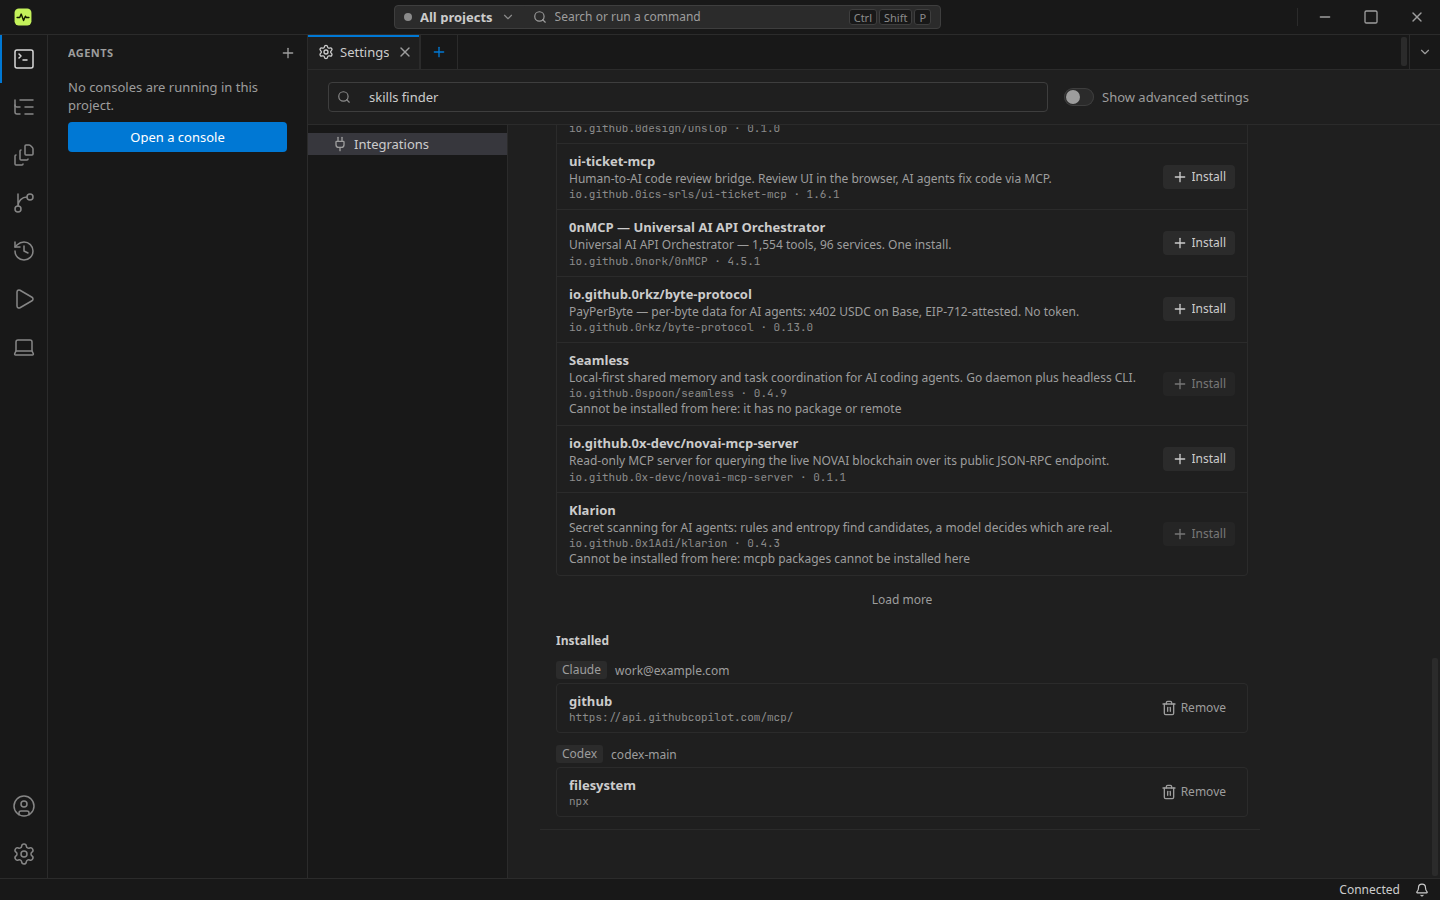
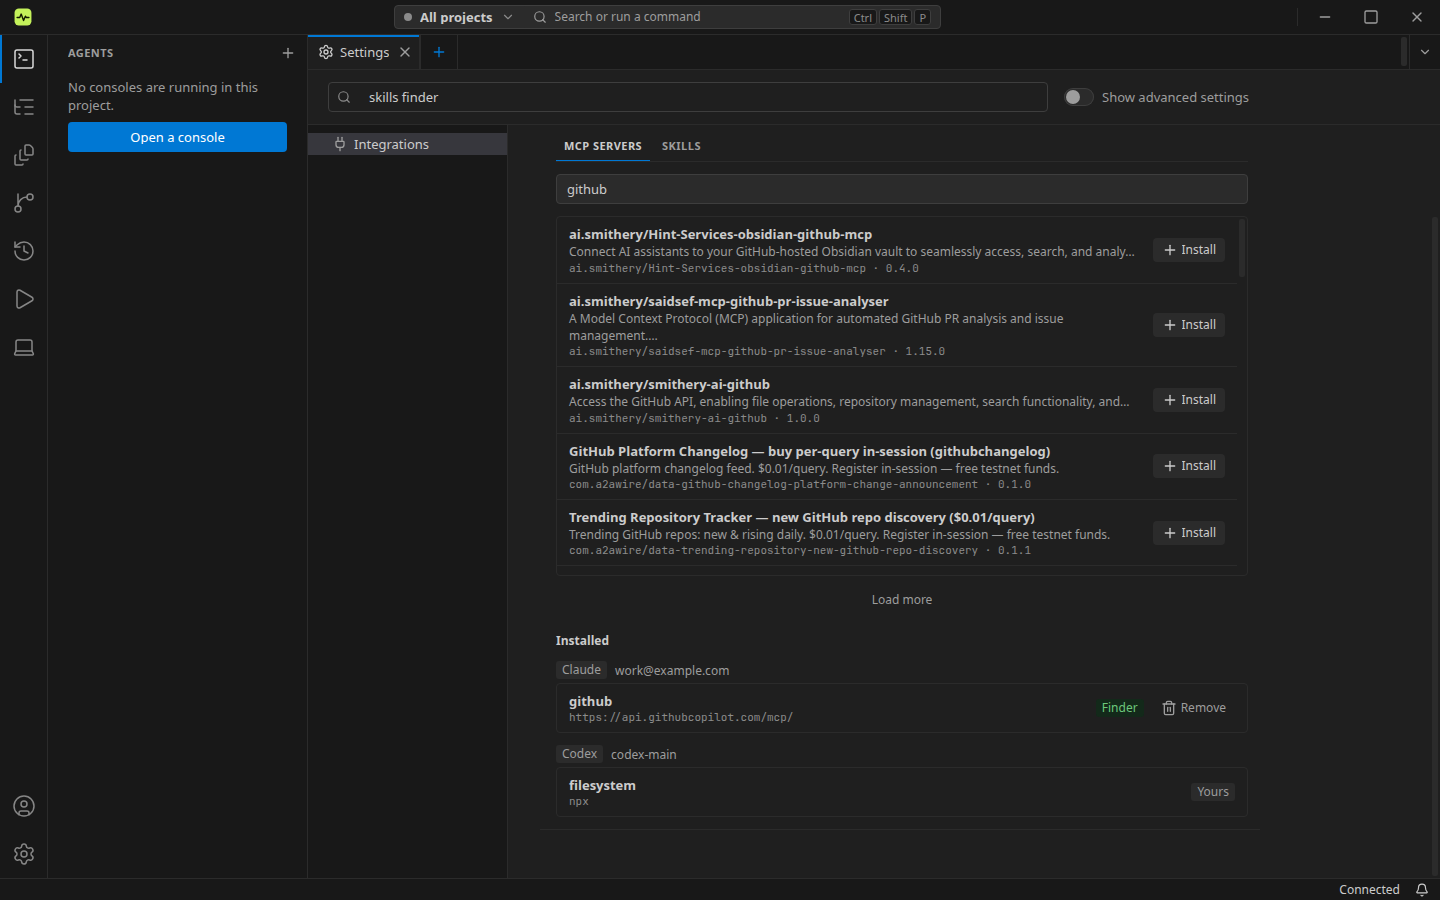
feat(settings): remove only finder-installed MCP servers
MCP configs carry no origin, so the installed list offered Remove on
servers the person set up themselves. The finder now records its own MCP
installs per account in renderer storage; only those show the Finder
badge and Remove, other non-Astera servers show Yours and stay read-only.
The record drops servers no longer installed, so one re-added by hand is
the person's.

diff --git a/src/renderer/src/components/extensions/FinderPanel.tsx b/src/renderer/src/components/extensions/FinderPanel.tsx
@@ -8,7 +8,10 @@ import { useI18n } from '../../i18n/I18nProvider'
 import { toast } from '../../lib/toast'
 import { confirmModal } from '../../lib/confirm'
 import { Button, Chip, Icon, Input, Tabs } from '../ui'
-import { byAccount, inputsOf, installedIn, mcpOrigin, mcpRemovable, SEARCH_DEBOUNCE_MS, skillRemovable, splitResults, filledValues } from './finderLogic'
+import {
+  byAccount, filledValues, inputsOf, installedIn, mcpOrigin, prunedOwned, readOwned, removable, SEARCH_DEBOUNCE_MS, splitResults, withInstalled,
+  withoutInstalled, writeOwned
+} from './finderLogic'
 import { InstallDialog } from './InstallDialog'
 import { SkillReposEditor } from './SkillReposEditor'
 import './finder.css'
@@ -20,6 +23,14 @@ type SkillPage = { skills: SkillCatalogEntry[]; repoErrors: string[] }
 type Target = { kind: 'mcp'; entry: McpCatalogEntry } | { kind: 'skills'; entry: SkillCatalogEntry }
 
 const detailOf = (err: unknown): string => (err instanceof Error ? err.message : String(err))
+
+function storage(): Storage | undefined {
+  try {
+    return typeof localStorage === 'undefined' ? undefined : localStorage
+  } catch {
+    return undefined
+  }
+}
 
 /** The search box's value, settled for SEARCH_DEBOUNCE_MS. */
 function useDebounced(value: string): string {
@@ -67,6 +78,14 @@ export function FinderPanel({ accounts }: { accounts: readonly Account[] }): Rea
   const [target, setTarget] = useState<Target | null>(null)
   const [installing, setInstalling] = useState(false)
   const [removing, setRemoving] = useState<string | null>(null)
+  /** The MCP servers the finder installed (finderLogic FINDER_MCP_KEY): the only MCP rows with Remove. */
+  const [owned, setOwnedState] = useState<Set<string>>(() => readOwned(storage()))
+  const setOwned = (update: (prev: Set<string>) => Set<string>): void =>
+    setOwnedState((prev) => {
+      const next = update(prev)
+      writeOwned(storage(), next)
+      return next
+    })
   /** Only the latest search may land: an older, slower answer is dropped. */
   const seq = useRef(0)
   const labelOf = useMemo(() => {
@@ -112,7 +131,10 @@ export function FinderPanel({ accounts }: { accounts: readonly Account[] }): Rea
     if (which === 'mcp') {
       setMcpInstalled({ state: 'loading' })
       window.api.extensions.mcpInstalled().then(
-        (v) => setMcpInstalled({ state: 'ok', value: v }),
+        (v) => {
+          setMcpInstalled({ state: 'ok', value: v })
+          setOwned((prev) => prunedOwned(prev, v))
+        },
         (err) => setMcpInstalled({ state: 'error', message: detailOf(err) })
       )
     } else {
@@ -137,6 +159,10 @@ export function FinderPanel({ accounts }: { accounts: readonly Account[] }): Rea
           ? await window.api.extensions.mcpInstall({ accountIds, name: target.entry.name, recipe: target.entry.recipe, values: filledValues(values) })
           : await window.api.extensions.skillsInstall({ accountIds, repo: (target.entry as SkillCatalogEntry).repo, path: (target.entry as SkillCatalogEntry).path })
       const { ok, failed } = splitResults(r, labelOf)
+      if (target.kind === 'mcp') {
+        const done = r.results.filter((x) => x.ok).map((x) => x.accountId)
+        setOwned((prev) => withInstalled(prev, done, target.entry.name))
+      }
       if (ok.length > 0) toast.success(t('finder.installed.ok', { name: target.entry.name, accounts: ok.join(', '), note: r.note }))
       for (const f of failed) toast.error(t('finder.installed.failed', { account: f.label, detail: f.message }))
       setTarget(null)
@@ -154,7 +180,10 @@ export function FinderPanel({ accounts }: { accounts: readonly Account[] }): Rea
     setRemoving(`${accountId}/${name}`)
     try {
       const r = kind === 'mcp' ? await window.api.extensions.mcpRemove(accountId, name) : await window.api.extensions.skillsRemove(accountId, name)
-      if (r.ok) toast.success(t('finder.remove.done', { name, account }))
+      if (r.ok) {
+        if (kind === 'mcp') setOwned((prev) => withoutInstalled(prev, accountId, name))
+        toast.success(t('finder.remove.done', { name, account }))
+      }
       else toast.error(t('finder.remove.failed', { name, detail: r.message }))
     } catch (err) {
       toast.error(t('finder.remove.failed', { name, detail: detailOf(err) }))
@@ -260,8 +289,8 @@ export function FinderPanel({ accounts }: { accounts: readonly Account[] }): Rea
               <ul className="finder__list">
                 {items.map((i) => {
                   const isMcp = kind === 'mcp'
-                  const origin = isMcp ? mcpOrigin(i as McpInstalled) : (i as SkillInstalled).origin
-                  const canRemove = isMcp ? mcpRemovable(i as McpInstalled) : skillRemovable(i as SkillInstalled)
+                  const origin = isMcp ? mcpOrigin(i as McpInstalled, owned) : (i as SkillInstalled).origin
+                  const canRemove = removable(origin)
                   const detail = isMcp ? ((i as McpInstalled).url ?? (i as McpInstalled).command ?? (i as McpInstalled).transport) : (i as SkillInstalled).description
                   return (
                     <li key={i.name} className="finder__item">

diff --git a/src/renderer/src/components/extensions/finderLogic.test.ts b/src/renderer/src/components/extensions/finderLogic.test.ts
@@ -1,8 +1,8 @@
 import { describe, expect, it } from 'vitest'
 import type { Account, McpInput } from '../../../../core/types'
 import {
-  accountsByProvider, byAccount, canInstall, defaultPick, filledValues, initialValues, installedIn, mcpOrigin, mcpRemovable, missingInputs,
-  normaliseRepo, providerPick, repoProblem, skillRemovable, splitResults, toggleProvider
+  accountsByProvider, byAccount, canInstall, defaultPick, filledValues, initialValues, installedIn, mcpOrigin, missingInputs, prunedOwned, readOwned, removable, withInstalled, withoutInstalled, writeOwned,
+  normaliseRepo, providerPick, repoProblem, splitResults, toggleProvider
 } from './finderLogic'
 
 const acc = (id: string, provider?: 'claude' | 'codex'): Account => ({ id, label: id.toUpperCase(), configDir: `/c/${id}`, color: '', createdAt: '', provider })
@@ -45,15 +45,31 @@ describe('MCP inputs', () => {
 })
 
 describe('installed lists', () => {
-  it('the astera server is Astera’s and not removable; another MCP server is; only a finder skill is', () => {
-    expect(mcpOrigin({ accountId: 'a', name: 'Astera', transport: 'stdio' })).toBe('astera')
-    expect(mcpRemovable({ accountId: 'a', name: 'astera', transport: 'stdio' })).toBe(false)
-    expect(mcpOrigin({ accountId: 'a', name: 'github', transport: 'http' })).toBeNull()
-    expect(mcpRemovable({ accountId: 'a', name: 'github', transport: 'http' })).toBe(true)
-    const skill = { accountId: 'a', name: 's', description: '' }
-    expect(skillRemovable({ ...skill, origin: 'finder' })).toBe(true)
-    expect(skillRemovable({ ...skill, origin: 'user' })).toBe(false)
-    expect(skillRemovable({ ...skill, origin: 'astera' })).toBe(false)
+  it('an MCP server is Astera’s, the finder’s only when it recorded the install, else the person’s', () => {
+    const owned = withInstalled(new Set(), ['a', 'b'], 'github')
+    expect(mcpOrigin({ accountId: 'a', name: 'Astera', transport: 'stdio' }, owned)).toBe('astera')
+    expect(mcpOrigin({ accountId: 'a', name: 'github', transport: 'http' }, owned)).toBe('finder')
+    expect(mcpOrigin({ accountId: 'c', name: 'github', transport: 'http' }, owned)).toBe('user')
+    expect(mcpOrigin({ accountId: 'a', name: 'mine', transport: 'stdio' }, owned)).toBe('user')
+    expect(removable('finder')).toBe(true)
+    expect(removable('user')).toBe(false)
+    expect(removable('astera')).toBe(false)
+    const after = withoutInstalled(owned, 'a', 'github')
+    expect(mcpOrigin({ accountId: 'a', name: 'github', transport: 'http' }, after)).toBe('user')
+  })
+  it('the record survives storage, ignores bad values, and drops servers no longer installed', () => {
+    const store = new Map<string, string>()
+    const storage = { getItem: (k: string) => store.get(k) ?? null, setItem: (k: string, v: string) => void store.set(k, v) }
+    const owned = withInstalled(new Set(), ['a'], 'github')
+    writeOwned(storage, owned)
+    expect(readOwned(storage)).toEqual(owned)
+    store.set('astera.finder.mcpInstalls', '{bad')
+    expect(readOwned(storage).size).toBe(0)
+    expect(readOwned(undefined).size).toBe(0)
+    expect(prunedOwned(withInstalled(new Set(), ['a', 'b'], 'x'), [{ accountId: 'b', name: 'x', transport: 'stdio' }])).toEqual(withInstalled(new Set(), ['b'], 'x'))
+  })
+  it('only a finder skill is removable', () => {
+    for (const o of ['astera', 'finder', 'user'] as const) expect(removable(o)).toBe(o === 'finder')
   })
   it('groups by account in account order, sorted by name, empty accounts kept', () => {
     const items = [{ accountId: 'b', name: 'z' }, { accountId: 'a', name: 'y' }, { accountId: 'a', name: 'x' }]

diff --git a/src/renderer/src/components/extensions/finderLogic.ts b/src/renderer/src/components/extensions/finderLogic.ts
@@ -10,14 +10,54 @@ export const SEARCH_DEBOUNCE_MS = 350
 /** Astera's own MCP entry: managed in Settings › CLI, never removable here (core/extensions/mcpConfig.ts). */
 export const ASTERA_MCP = 'astera'
 
-/** Where an installed skill came from (SkillOrigin): only `finder` ones are removable here. MCP configs carry
- *  no finder marker, so an MCP server is either Astera's own (never removable) or of unknown origin, which the
- *  backend lets the finder remove and the row asks about first. */
+/** Where an installed entry came from: Astera's own, installed by the finder (the only ones removable here), or the
+ *  person's own. Skills carry it on disk (SkillOrigin). MCP configs carry no marker, so the finder remembers its own
+ *  MCP installs in this renderer's storage (FINDER_MCP_KEY); a server it did not record is the person's. */
 export type Origin = 'astera' | 'finder' | 'user'
 
-export const mcpOrigin = (s: McpInstalled): 'astera' | null => (s.name.toLowerCase() === ASTERA_MCP ? 'astera' : null)
-export const mcpRemovable = (s: McpInstalled): boolean => mcpOrigin(s) === null
-export const skillRemovable = (s: SkillInstalled): boolean => s.origin === 'finder'
+/** localStorage key of the MCP servers the finder installed, as `accountId` + NUL + `name` entries. */
+export const FINDER_MCP_KEY = 'astera.finder.mcpInstalls'
+const entry = (accountId: string, name: string): string => `${accountId}\0${name}`
+
+export const mcpOrigin = (s: McpInstalled, owned: ReadonlySet<string>): Origin =>
+  s.name.toLowerCase() === ASTERA_MCP ? 'astera' : owned.has(entry(s.accountId, s.name)) ? 'finder' : 'user'
+export const removable = (o: Origin): boolean => o === 'finder'
+
+/** The finder's MCP record read from storage; an unreadable or malformed value is an empty record. */
+export function readOwned(storage: Pick<Storage, 'getItem'> | undefined): Set<string> {
+  try {
+    const v: unknown = JSON.parse(storage?.getItem(FINDER_MCP_KEY) ?? '[]')
+    return new Set(Array.isArray(v) ? v.filter((x): x is string => typeof x === 'string') : [])
+  } catch {
+    return new Set()
+  }
+}
+
+export function writeOwned(storage: Pick<Storage, 'setItem'> | undefined, owned: ReadonlySet<string>): void {
+  try {
+    storage?.setItem(FINDER_MCP_KEY, JSON.stringify([...owned]))
+  } catch {
+    /* storage unavailable: the install is not remembered, so its row reads as the person's and is not removable */
+  }
+}
+
+/** `owned` plus the accounts `name` was just installed in. */
+export const withInstalled = (owned: ReadonlySet<string>, accountIds: readonly string[], name: string): Set<string> =>
+  new Set([...owned, ...accountIds.map((id) => entry(id, name))])
+
+/** `owned` without one server (it was removed). */
+export function withoutInstalled(owned: ReadonlySet<string>, accountId: string, name: string): Set<string> {
+  const next = new Set(owned)
+  next.delete(entry(accountId, name))
+  return next
+}
+
+/** `owned` keeping only servers still installed: one removed outside Astera and later set up again by hand is the
+ *  person's, not the finder's. */
+export const prunedOwned = (owned: ReadonlySet<string>, installed: readonly McpInstalled[]): Set<string> => {
+  const present = new Set(installed.map((s) => entry(s.accountId, s.name)))
+  return new Set([...owned].filter((e) => present.has(e)))
+}
 
 /** The accounts of each provider, in the order the person keeps them. */
 export function accountsByProvider(accounts: readonly Account[]): Record<Provider, Account[]> {
